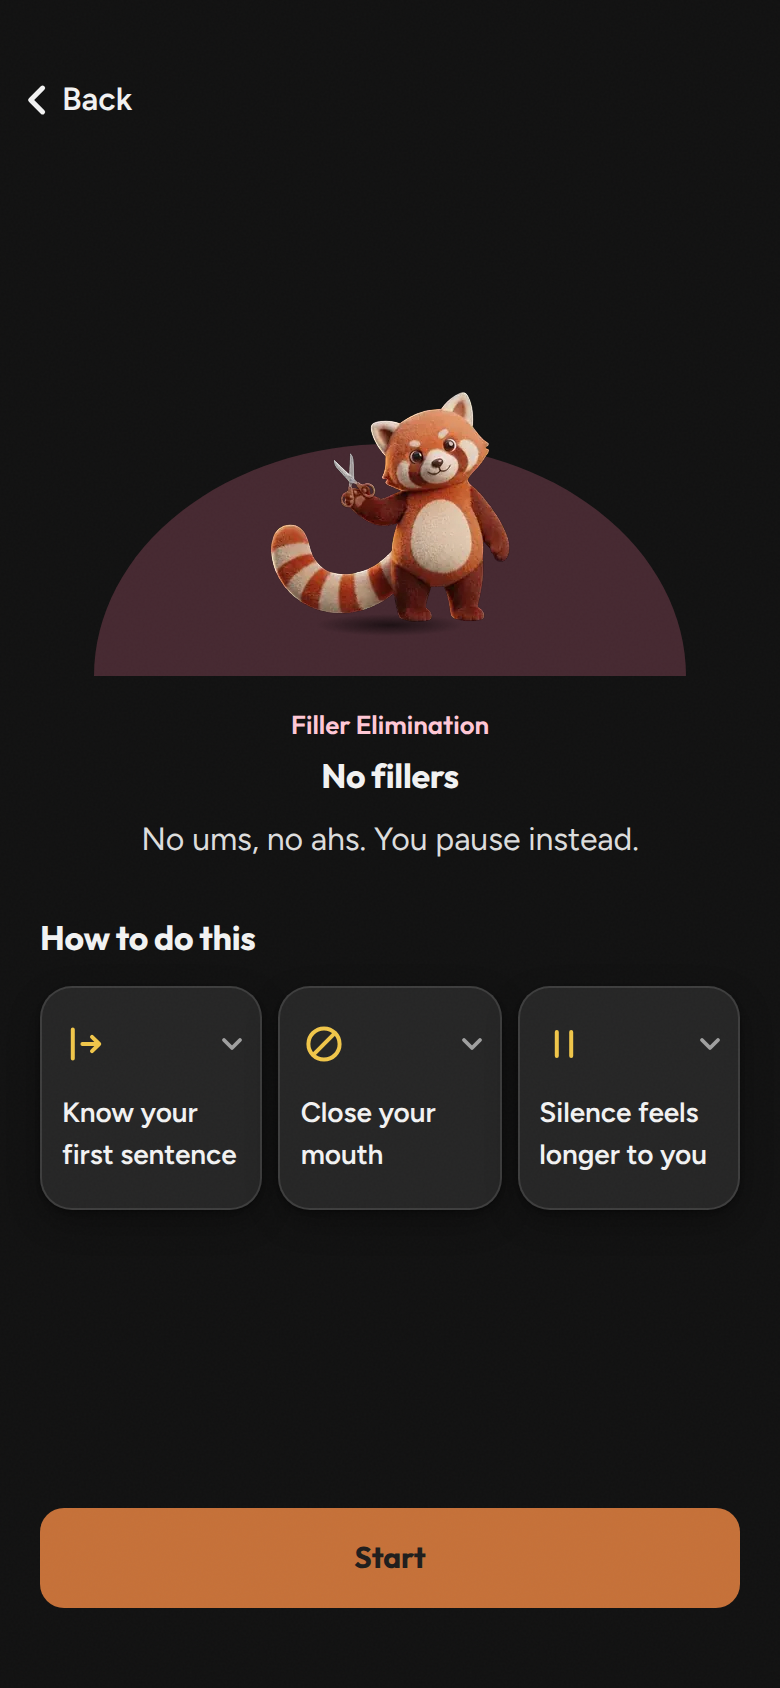
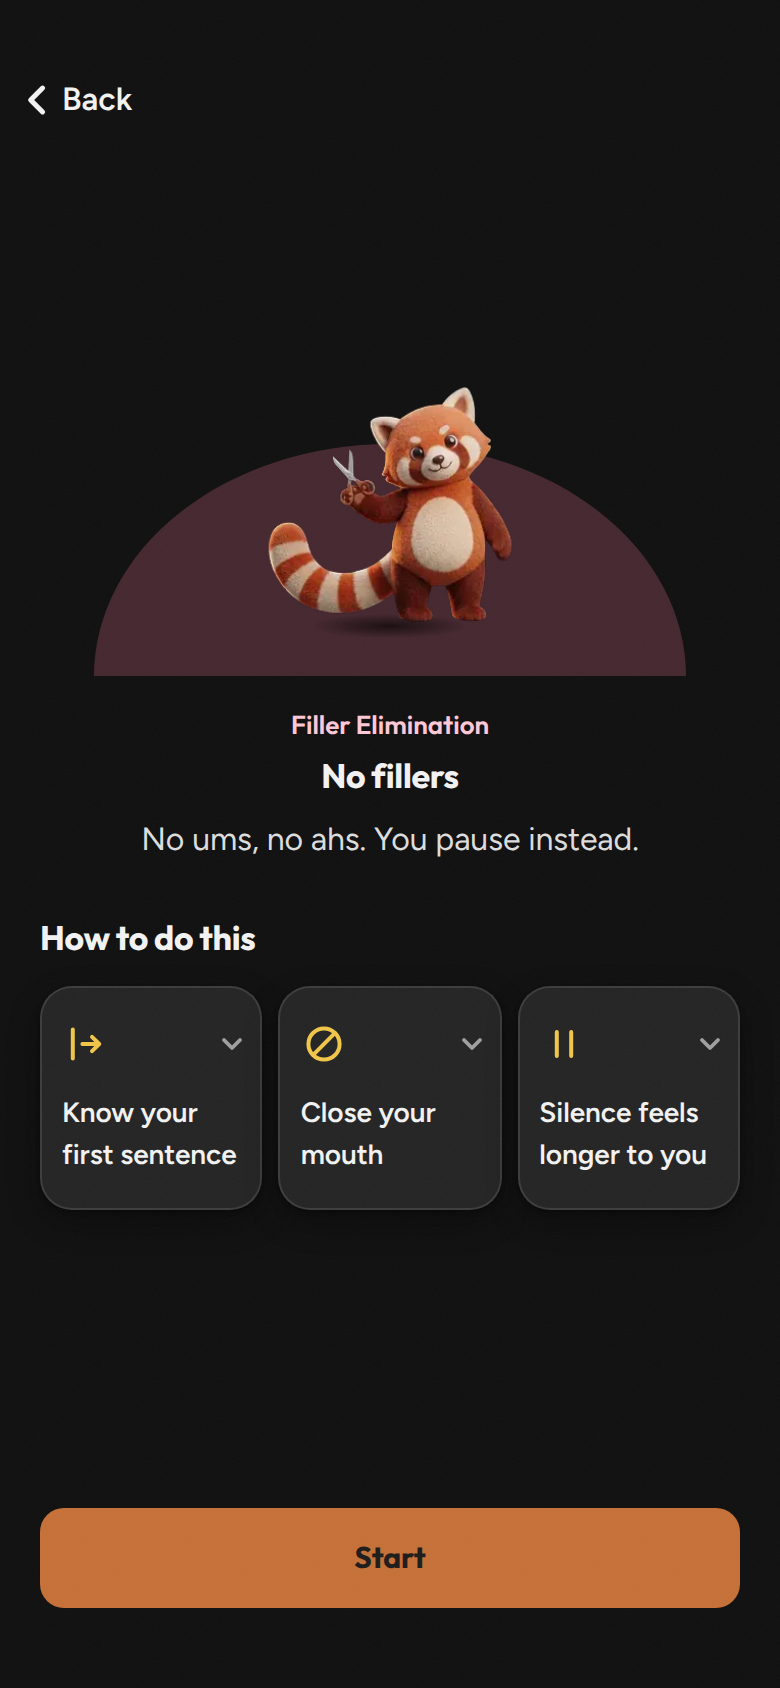
B9: the unit mark breathes on DemosArt's loop after it arrives
The unit marks have no idle clip (#316), so at 128px he takes the
still poses' own breath and ground loop, still under reduced motion.

Claude-Session: https://claude.ai/code/session_01KQpi1wPL2sdqgKKvt94vrP

Changed region(s): [[0.4308, 0.2156, 0.6462, 0.3389], [0.3385, 0.3081, 0.4615, 0.3697]]

diff --git a/app/lesson/[unit]/page.tsx b/app/lesson/[unit]/page.tsx
@@ -112,15 +112,18 @@ function LessonIntro() {
  * page's grammar (M06) so the three one-step-in screens read as one
  * family. 128px from a 256px cut, so it stays crisp at 2x; next/image is
  * safe here because the service worker does not pre-cache /unit/. It
- * arrives once, with the screen.
+ * arrives once, with the screen, and then breathes.
  */
 function UnitStage({ id }: { id: string }) {
   return (
     <div className="relative -mx-5 mb-4 flex justify-center pb-[22px]">
       <div aria-hidden className="stage-dome absolute inset-x-0 bottom-0" />
       <div className="arrive relative h-32 w-32">
+        {/* He breathes on DemosArt's own loop and his shadow with him
+            (`.demos-breath`, `.ground-breath`; still under reduced
+            motion): the unit marks have no idle clip yet (#316). */}
         <div aria-hidden className="demos-ground">
-          <span />
+          <span className="ground-breath" />
         </div>
         <Image
           src={`/unit/${id}.webp`}
@@ -128,7 +131,7 @@ function UnitStage({ id }: { id: string }) {
           width={128}
           height={128}
           priority
-          className="demos pointer-events-none relative mx-auto h-32 w-32"
+          className="demos demos-breath pointer-events-none relative mx-auto h-32 w-32"
         />
       </div>
     </div>
